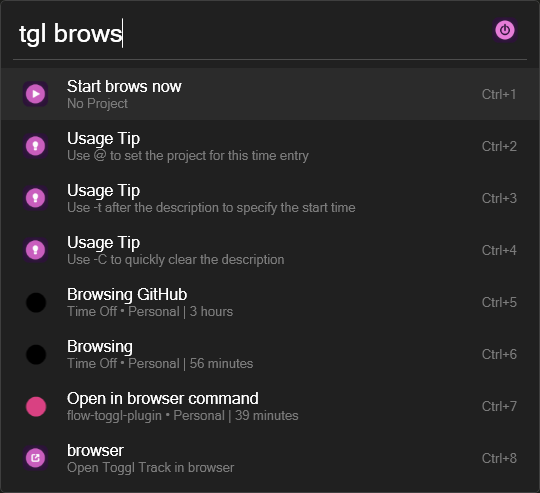
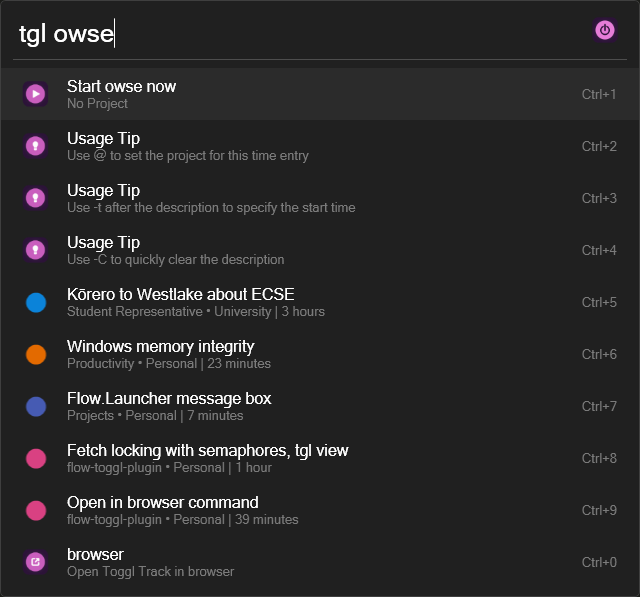
docs(readme): :memo: document changes to `tgl` keyword (#112)

diff --git a/README.md b/README.md
@@ -83,9 +83,10 @@ A performant [Toggl Track](https://track.toggl.com/timer) plugin for [Flow Launc
 # Command Reference
 
 > **Note**  
-> This command reference applies to version `v4.0.0-1`.  
+> This command reference applies to version `v4.0.0-2`.  
 
 **Older Versions**:
+- [`v4.0.0-1`](https://github.com/JamesNZL/flow-toggl-plugin/tree/v4.0.0-1#command-reference)
 - [`v4.0.0-0`](https://github.com/JamesNZL/flow-toggl-plugin/tree/5d54beec1ad4917c2d7f4cae14d23a4fecb6176d#command-reference)
 - [`v3.0.1`](https://github.com/JamesNZL/flow-toggl-plugin/tree/9be3a06727104b3bed38e8011e9e4a8073eec0e0#command-reference)
 - [`v3.0.0`](https://github.com/JamesNZL/flow-toggl-plugin/tree/25611682dd63d0eef2a2e337f94309eca00cb0a4#command-reference) (created command reference)
@@ -131,8 +132,20 @@ When the plugin is triggered with no further input, the list of results will con
 
 ![`tgl` with no input](assets/screenshots/tgl/empty-query.png)
 
+#### `tgl [exact partial command name]`
+When followed by an exact match for the start of any recognised command name, the list of results will contain all the executable commands which fuzzy match the query.
+This allows you to search for plugin commands without the list of results being flooded by past time entry suggestions.
+
+![`tgl` with a partial command name and fuzzy results](assets/screenshots/tgl/partial-command-name-fuzzy.png)
+
+![`tgl` with a partial command name](assets/screenshots/tgl/partial-command-name.png)
+
+> **Note**  
+> To create a new time entry that starts with a partial command name, you may escape the partial command with a backslash (`\`) character.  
+> ![`tgl` with an escaped partial command name](assets/screenshots/tgl/escaped-partial-command-name.png)
+
 #### `tgl [command name]`
-When followed by a recognised command name, the respective command will be auto-triggered and the list of results will contain its respective actions.
+When followed by a full recognised command name, the respective command will be auto-triggered and the list of results will contain its respective actions.
 
 ![`tgl` with a command name](assets/screenshots/tgl/command-name.png)
 
